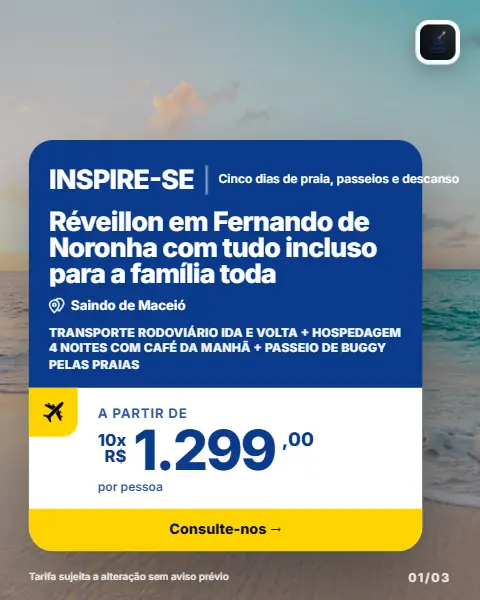
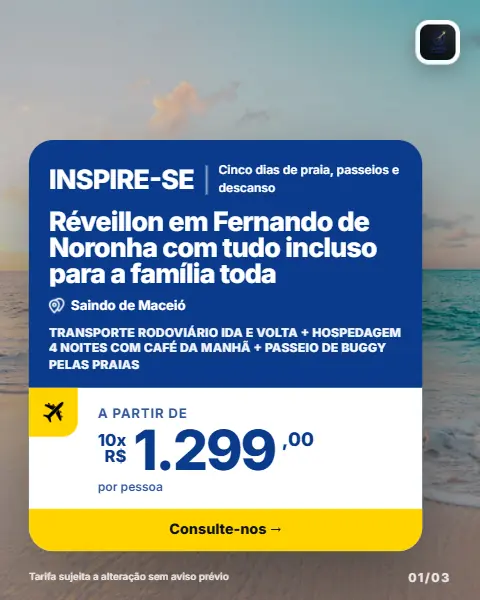
feat(funil): e-mail direto para o quiz, sem Google; vitrine em sequência também no quiz
- /inicio: e-mail abre o quiz na hora, sem link nem tela de confirmação; quem já tem conta confirma só ao pagar.
- Botão do Google desligado; quiz aberto sem login.
- Vitrine: carrosséis inteiros na ordem da postagem; mesmas peças no quiz, tela de exemplo resumida.
- Topo: logo pequena redonda e botão Acessar.
- Oferta: frase ao lado do rótulo não vaza do cartão.

Changed region(s): [[0.4375, 0.27, 0.9688, 0.33]]

diff --git a/src/pages/InicioCreme.tsx b/src/pages/InicioCreme.tsx
@@ -1,5 +1,6 @@
 import { useEffect, useRef, useState, type ChangeEvent, type ComponentType, type DragEvent, type FormEvent } from "react";
 import { useNavigate } from "react-router-dom";
+import logo from "@/assets/logo.png";
 import { Helmet } from "react-helmet-async";
 import {
   ArrowRight, Check, X, MapPin, Sparkles, Download, Mic, Upload, Infinity as InfinityIcon,
@@ -9,6 +10,7 @@ import {
 import { useAuth } from "@/contexts/AuthContext";
 import { trackMetaEvent } from "@/lib/meta-pixel-sales";
 import { BrandMark, Eyebrow, delay, useReveal } from "@/components/cv-cream/shared";
+import { ShowcaseRow, SHOWCASE_ADS, SHOWCASE_CAROUSELS } from "@/components/cv-cream/Showcase";
 import { siteOfferDemos } from "@/lib/site-offer-demos";
 import heroDashboard from "@/assets/hero_dashboard.jpg";
 
@@ -17,41 +19,6 @@ export const ONBOARDING_DESTINO_KEY = "cv-onboarding-destino";
 export const ONBOARDING_LOGO_KEY = "cv-onboarding-logo";
 
 type Icon = ComponentType<{ className?: string }>;
-type Piece = { src: string; w: number; h: number };
-
-// Vitrine: peças feitas na plataforma, em versões leves para o tamanho em que aparecem.
-const ADS: Piece[] = Array.from({ length: 9 }, (_, i) => ({ src: `/quiz-media/vitrine/ad-rio-${i + 1}.webp`, w: 540, h: 540 }));
-const CAROUSEL_SLIDES: Piece[] = [
-  "car-noronha-1",
-  "car-azul-0",
-  "car-preto-0",
-  "car-noronha-2",
-  "car-azul-1",
-  "car-preto-1",
-  "car-noronha-3",
-  "car-azul-2",
-  "car-preto-2",
-  "car-noronha-4",
-  "car-azul-3",
-  "car-preto-3",
-  "car-noronha-5",
-  "car-azul-4",
-  "car-preto-4",
-  "car-azul-5",
-  "car-preto-5",
-  "car-azul-6",
-  "car-preto-6",
-  "car-azul-7",
-  "car-preto-7",
-  "car-azul-8",
-  "car-preto-8",
-  "car-azul-9",
-  "car-preto-9",
-  "car-azul-10",
-  "car-preto-10",
-  "car-azul-11",
-  "car-preto-11",
-].map((n) => ({ src: `/quiz-media/vitrine/${n}.webp`, w: 480, h: 600 }));
 
 const builtFor: { label: string; icon: Icon }[] = [
   { label: "Anúncios", icon: Megaphone },
@@ -153,9 +120,11 @@ export default function InicioCreme() {
             boxShadow: scrolled ? "0 10px 30px -18px rgba(32,28,19,.35)" : "none",
           }}
         >
-          <a href="/inicio" aria-label="Canva Viagem" className="pr-2"><BrandMark size={36} /></a>
-          <button onClick={() => start("header")} className="cv-btn h-11 shrink-0 whitespace-nowrap px-4 text-[14px] sm:h-[52px] sm:px-7 sm:text-base">
-            Comece agora <ArrowRight className="hidden h-4 w-4 sm:block" />
+          <a href="/inicio" aria-label="Canva Viagem" className="block h-[26px] w-[26px] overflow-hidden rounded-full">
+            <img src={logo} alt="Canva Viagem" width={26} height={26} className="h-full w-full scale-[1.18] object-cover" />
+          </a>
+          <button onClick={() => start("header")} className="cv-btn h-9 shrink-0 whitespace-nowrap px-4 text-[13px]">
+            Acessar
           </button>
         </div>
       </header>
@@ -199,8 +168,8 @@ export default function InicioCreme() {
               </span>
               <p className="text-[14px] font-semibold" style={{ color: "var(--cv-muted)" }}>Anúncios, carrosséis e stories saindo prontos agora. Pode fazer 1 ou 1.000 no mesmo dia.</p>
             </div>
-            <ShowcaseRow pieces={ADS} alt="Anúncio feito na plataforma Canva Viagem" />
-            <ShowcaseRow pieces={CAROUSEL_SLIDES} alt="Slide de carrossel feito na plataforma Canva Viagem" reverse className="mt-2" />
+            <ShowcaseRow pieces={SHOWCASE_ADS} alt="Anúncio feito na plataforma Canva Viagem" />
+            <ShowcaseRow pieces={SHOWCASE_CAROUSELS} alt="Slide de carrossel feito na plataforma Canva Viagem" reverse className="mt-2" />
           </div>
 
           <div className="mx-auto mt-8 flex max-w-5xl flex-wrap items-center justify-center gap-2 rounded-full border bg-white px-4 py-3" style={{ borderColor: "var(--cv-line)" }}>
@@ -419,31 +388,6 @@ export default function InicioCreme() {
 }
 
 /* ───────────────────────── blocos ───────────────────────── */
-
-/** Faixa da vitrine. Carrega tudo logo ao abrir: em faixa animada o carregamento adiado deixava quadros vazios no celular. */
-function ShowcaseRow({ pieces, alt, reverse = false, className = "" }: { pieces: Piece[]; alt: string; reverse?: boolean; className?: string }) {
-  const items = [...pieces, ...pieces];
-  return (
-    <div className={`relative overflow-hidden rounded-[28px] py-2 ${className}`} style={{ maskImage: "linear-gradient(90deg, transparent, #000 6%, #000 94%, transparent)" }}>
-      <div className="travel-mobile-marquee flex w-max items-center gap-4" style={reverse ? { animationDirection: "reverse", animationDuration: "90s" } : undefined}>
-        {items.map((p, i) => (
-          <img
-            key={`${p.src}-${i}`}
-            src={p.src}
-            width={p.w}
-            height={p.h}
-            alt={i < pieces.length ? alt : ""}
-            aria-hidden={i >= pieces.length}
-            className="h-[200px] w-auto shrink-0 rounded-2xl border-4 border-white object-cover shadow-md sm:h-[260px]"
-            style={{ background: "var(--cv-sand)", aspectRatio: `${p.w} / ${p.h}` }}
-            loading="eager"
-            decoding="async"
-          />
-        ))}
-      </div>
-    </div>
-  );
-}
 
 /** Ilustrações animadas dos três passos: ouvir, montar, publicar. */
 function StepIllustration({ index }: { index: number }) {

diff --git a/src/pages/Onboarding.tsx b/src/pages/Onboarding.tsx
@@ -14,6 +14,7 @@ import { ELITE_OFFER } from "@/lib/eliteOffer";
 import { checkoutPath } from "@/components/checkout/checkout-plans";
 import { PayWithPixButton } from "@/components/pix/PixCheckout";
 import { BrandMark, delay } from "@/components/cv-cream/shared";
+import { ShowcaseRow, SHOWCASE_ADS, SHOWCASE_CAROUSELS } from "@/components/cv-cream/Showcase";
 import { ONBOARDING_DESTINO_KEY } from "@/pages/InicioCreme";
 import { isLocalPreviewEnabled } from "@/lib/localPreview";
 
@@ -124,12 +125,7 @@ const FIXES: Record<string, { title: string; fix: string; icon: Icon }> = {
 };
 
 const QUIZ_MEDIA = {
-  intro: ["/quiz-media/anuncio-maragogi-1.webp", "/quiz-media/carrossel-noronha-01.webp", "/quiz-media/anuncio-rio-1.webp"],
-  sample: "/quiz-media/anuncio-maragogi-1.webp",
-  carousels: [
-    { name: "Fernando de Noronha", slides: ["01", "02", "03", "04"].map((n) => `/quiz-media/carrossel-noronha-${n}.webp`) },
-    { name: "Maragogi", slides: ["01", "02", "03", "04"].map((n) => `/quiz-media/carrossel-maragogi-${n}.webp`) },
-  ],
+  intro: ["/quiz-media/vitrine/ad-rio-7.webp", "/quiz-media/vitrine/car-noronha-1.webp", "/quiz-media/vitrine/ad-rio-2.webp"],
   site: { desktop: "/quiz-media/site-desktop.webp", mobile: "/quiz-media/site-mobile.webp" },
 };
 
@@ -537,28 +533,18 @@ function Diagnosis({ answers, onNext }: { answers: Answers; onNext: () => void }
 function Sample({ onNext }: { onNext: () => void }) {
   return (
     <>
-      <Title sub="Anúncio, carrossel, o site do pacote e os seus clientes organizados. Tudo sai junto.">Essa arte levou 30 segundos. <Accent>Curtiu?</Accent></Title>
-      <div className="cv-pop mx-auto mt-6 w-full max-w-[320px]" style={delay(150)}>
-        <img src={QUIZ_MEDIA.sample} alt="Anúncio de Maragogi feito na Fábrica do Canva Viagem" className="aspect-square w-full rounded-[28px] object-cover shadow-[0_24px_50px_-24px_rgba(32,28,19,.6)]" />
+      <Title sub="Você recebe tudo isso pronto, com a sua logo.">Veja o que sai para a sua agência. <Accent>Curtiu?</Accent></Title>
+      <div className="cv-pop -mx-5 mt-5" style={delay(150)}>
+        <p className="mb-1 px-5 text-[12px] font-bold" style={{ color: "var(--cv-muted)" }}>ANÚNCIOS</p>
+        <ShowcaseRow pieces={SHOWCASE_ADS} alt="Anúncio feito no Canva Viagem" small />
+        <p className="mb-1 mt-3 px-5 text-[12px] font-bold" style={{ color: "var(--cv-muted)" }}>CARROSSÉIS</p>
+        <ShowcaseRow pieces={SHOWCASE_CAROUSELS} alt="Slide de carrossel feito no Canva Viagem" reverse small />
       </div>
-      {QUIZ_MEDIA.carousels.map((c, ci) => (
-        <div key={c.name} className="cv-pop mx-auto mt-4 w-full max-w-[320px]" style={delay(300 + ci * 150)}>
-          <p className="mb-2 text-[12px] font-semibold" style={{ color: "var(--cv-muted)" }}>+ carrossel de {c.name}</p>
-          <div className="grid grid-cols-4 gap-2">
-            {c.slides.map((src, i) => (
-              <img key={src} src={src} alt={`Tela ${i + 1} do carrossel de ${c.name}`} loading="lazy" className="aspect-[4/5] w-full rounded-xl object-cover shadow-md" />
-            ))}
-          </div>
-        </div>
-      ))}
-      <div className="cv-pop mx-auto mt-5 w-full max-w-[320px]" style={delay(600)}>
-        <p className="mb-2 text-[12px] font-semibold" style={{ color: "var(--cv-muted)" }}>+ o site do pacote, no computador e no celular</p>
+      <div className="cv-pop mx-auto mt-4 w-full max-w-[240px]" style={delay(300)}>
+        <p className="mb-2 text-center text-[12px] font-bold" style={{ color: "var(--cv-muted)" }}>SITE DO PACOTE</p>
         <SitePreview />
       </div>
-      <div className="cv-pop mx-auto mt-5 w-full max-w-[320px]" style={delay(750)}>
-        <p className="mb-2 text-[12px] font-semibold" style={{ color: "var(--cv-muted)" }}>+ seus clientes organizados</p>
-        <CrmPreview />
-      </div>
+      <p className="cv-pop mt-3 text-center text-[13px] font-semibold" style={{ ...delay(450), color: "var(--cv-muted)" }}>+ seus clientes organizados em um só lugar</p>
       <div className="mt-auto grid grid-cols-2 gap-3 pt-6">
         <button onClick={onNext} className="h-14 rounded-full border bg-white text-[15px] font-semibold" style={{ borderColor: "var(--cv-line)" }}>Não é meu estilo</button>
         <button onClick={onNext} className="cv-btn h-14 text-[15px]">Postaria isso!</button>

diff --git a/src/pages/Login.tsx b/src/pages/Login.tsx
@@ -28,6 +28,8 @@ const hashNormalizedEmail = async (email: string) => {
   return Array.from(new Uint8Array(digest), (byte) => byte.toString(16).padStart(2, "0")).join("");
 };
 
+const LEAD_EMAIL_KEY = "cv:lead-email";
+
 const bindPendingCheckoutToEmail = async (email: string) => {
   try {
     const pendingState = JSON.parse(localStorage.getItem(pendingAuthStateKey) || "null") as {
@@ -57,7 +59,9 @@ const Login = () => {
   const navigate = useNavigate();
   const [searchParams] = useSearchParams();
   const { user, loading, subscription } = useAuth();
-  const [email, setEmail] = useState("");
+  const [email, setEmail] = useState(() => {
+    try { return localStorage.getItem(LEAD_EMAIL_KEY) || ""; } catch { return ""; }
+  });
   const [name, setName] = useState("");
   const [phone, setPhone] = useState("");
   const [isLoading, setIsLoading] = useState(false);
@@ -148,7 +152,25 @@ const Login = () => {
 
     try {
       const normalizedEmail = email.toLowerCase().trim();
+      try { localStorage.setItem(LEAD_EMAIL_KEY, normalizedEmail); } catch { /* storage indisponível */ }
       await bindPendingCheckoutToEmail(normalizedEmail);
+      if (quickEntry) {
+        // Da página inicial: guarda o e-mail e abre o quiz na hora, sem link nem tela de confirmação.
+        // E-mail novo já ganha conta e sessão (mailer_autoconfirm). Quem já tem conta faz o quiz
+        // sem sessão e só confirma o e-mail na hora de pagar: entrar na conta sem o link seria inseguro.
+        const randomBytes = crypto.getRandomValues(new Uint8Array(24));
+        const password = Array.from(randomBytes, (b) => b.toString(16).padStart(2, "0")).join("");
+        const { data: signUp } = await supabase.auth
+          .signUp({ email: normalizedEmail, password, options: { data: { quick_start: true } } })
+          .catch(() => ({ data: { session: null } }));
+        if (signUp?.session) {
+          // O efeito de login acima leva para o quiz assim que a sessão carregar.
+          setOpeningQuiz(true);
+          return;
+        }
+        navigate(redirectTo || "/onboarding");
+        return;
+      }
       const { data, error } = await supabase.functions.invoke("send-magic-link", {
         body: {
           email: normalizedEmail,
@@ -167,27 +189,6 @@ const Login = () => {
           toast.error(errorMsg);
         }
         return;
-      }
-
-      if (quickEntry) {
-        // O projeto confirma e-mail automaticamente (mailer_autoconfirm), então o cadastro já devolve
-        // a sessão. A senha aleatória nunca é usada: a pessoa volta pelo link do e-mail ou pelo Google.
-        // E-mail que já tem conta não ganha sessão aqui; precisa confirmar pelo link.
-        const randomBytes = crypto.getRandomValues(new Uint8Array(24));
-        const password = Array.from(randomBytes, (b) => b.toString(16).padStart(2, "0")).join("");
-        const { data: signUp, error: signUpError } = await supabase.auth.signUp({
-          email: normalizedEmail,
-          password,
-          options: { data: { quick_start: true } },
-        });
-        if (!signUpError && signUp.session) {
-          // O efeito de login acima leva para o quiz assim que a sessão carregar.
-          setOpeningQuiz(true);
-          return;
-        }
-        const alreadyRegistered = /already|registered|exists/i.test(signUpError?.message ?? "")
-          || (signUp?.user && (signUp.user.identities?.length ?? 0) === 0);
-        setExistingAccount(Boolean(alreadyRegistered));
       }
 
       setMagicLinkSent(true);
@@ -517,7 +518,7 @@ function QuickEntryScreen(props: {
                 <li>Cancele quando quiser</li>
               </ul>
               <p className="mt-4 text-center text-[12px]" style={{ color: "var(--cv-muted)" }}>
-                Já é assinante? Use o mesmo e-mail da compra.
+                Já é assinante? <a href="/login?redirect=%2F" className="font-semibold underline">Entrar na minha conta</a>
               </p>
             </>
           ) : (

diff --git a/src/components/cv-cream/Showcase.tsx b/src/components/cv-cream/Showcase.tsx
@@ -1,0 +1,63 @@
+// Vitrine usada na página inicial e no quiz: mesmas peças, mesma ordem.
+export type ShowcasePiece = { src: string; w: number; h: number; newSet?: boolean };
+
+const base = "/quiz-media/vitrine";
+
+export const SHOWCASE_ADS: ShowcasePiece[] = Array.from({ length: 9 }, (_, i) => ({
+  src: `${base}/ad-rio-${i + 1}.webp`,
+  w: 540,
+  h: 540,
+}));
+
+// Cada carrossel fica inteiro e na ordem da postagem: capa, miolo e fechamento.
+const carousel = (name: string, frames: (string | number)[]): ShowcasePiece[] =>
+  frames.map((f, i) => ({ src: `${base}/car-${name}-${f}.webp`, w: 480, h: 600, newSet: i === 0 }));
+
+export const SHOWCASE_CAROUSELS: ShowcasePiece[] = [
+  ...carousel("noronha", [1, 2, 3, 4, 5]),
+  ...carousel("azul", [0, 1, 2]),
+  ...carousel("preto", [3, 4, 5]),
+  ...carousel("azul", [6, 7, 8]),
+  ...carousel("preto", [9, 10, 11]),
+  ...carousel("azul", [3, 4, 5]),
+  ...carousel("preto", [0, 1, 2]),
+  ...carousel("azul", [9, 10, 11]),
+  ...carousel("preto", [6, 7, 8]),
+];
+
+/** Faixa infinita. Carrega tudo ao abrir: em faixa animada, o carregamento adiado deixava quadros vazios no celular. */
+export function ShowcaseRow({
+  pieces,
+  alt,
+  reverse = false,
+  small = false,
+  className = "",
+}: {
+  pieces: ShowcasePiece[];
+  alt: string;
+  reverse?: boolean;
+  small?: boolean;
+  className?: string;
+}) {
+  const items = [...pieces, ...pieces];
+  return (
+    <div className={`relative overflow-hidden rounded-[28px] py-2 ${className}`} style={{ maskImage: "linear-gradient(90deg, transparent, #000 6%, #000 94%, transparent)" }}>
+      <div className="travel-mobile-marquee flex w-max items-center gap-4" style={reverse ? { animationDirection: "reverse", animationDuration: "120s" } : undefined}>
+        {items.map((p, i) => (
+          <img
+            key={`${p.src}-${i}`}
+            src={p.src}
+            width={p.w}
+            height={p.h}
+            alt={i < pieces.length ? alt : ""}
+            aria-hidden={i >= pieces.length}
+            className={`w-auto shrink-0 rounded-2xl border-4 border-white object-cover shadow-md ${small ? "h-[170px]" : "h-[200px] sm:h-[260px]"}`}
+            style={{ background: "var(--cv-sand)", aspectRatio: `${p.w} / ${p.h}`, marginLeft: p.newSet ? 24 : undefined }}
+            loading="eager"
+            decoding="async"
+          />
+        ))}
+      </div>
+    </div>
+  );
+}

diff --git a/src/components/fabrica/CarouselProSlides.tsx b/src/components/fabrica/CarouselProSlides.tsx
@@ -428,7 +428,7 @@ export function ProSlide(p: ProSlideProps) {
               <div style={{ display: "flex", alignItems: "center", gap: 10 }}>
                 <span style={{ fontFamily: ff, fontSize: 24, fontWeight: 900, letterSpacing: "-0.02em", flexShrink: 0 }}>{label || T.offer}</span>
                 <span style={{ width: 1.5, height: 26, background: rgba(cardFg, 0.5), flexShrink: 0 }} />
-                <Body text={tagline} color={cardFg} ff={ff} size={11} maxLines={2} weight={600} />
+                <div style={{ flex: "1 1 0", minWidth: 0 }}><Body text={tagline} color={cardFg} ff={ff} size={11} maxLines={2} weight={600} /></div>
               </div>
               <Title text={title} color={titleColor || cardFg} ff={ff} base={story ? 34 : 32} maxLines={4} weight={900} />
               {departure && (

diff --git a/src/App.tsx b/src/App.tsx
@@ -253,7 +253,7 @@ const App = () => {
                     <Route path="/planos" element={<Navigate to="/inicio" replace />} />
                     <Route path="/pt/planos" element={<Navigate to="/inicio" replace />} />
                     <Route path="/inicio" element={<InicioEntry />} />
-                    <Route path="/onboarding" element={<ProtectedRoute><Onboarding /></ProtectedRoute>} />
+                    <Route path="/onboarding" element={<Onboarding />} />
                     <Route path="/checkout" element={<ProtectedRoute><Checkout /></ProtectedRoute>} />
                     <Route path="/anuncios-para-agencia-de-viagens" element={<AdsOfferLanding />} />
                     <Route path="/site-para-agencia-de-viagens" element={<SiteOfferLanding />} />

diff --git a/src/components/auth/GoogleSignInButton.tsx b/src/components/auth/GoogleSignInButton.tsx
@@ -9,7 +9,8 @@ import { lovable } from "@/integrations/lovable";
  * Depois do retorno, a sessão entra no Supabase e a própria página de login redireciona para
  * `redirectTo` (quiz, checkout...) ou / ou /inicio.
  */
-let googleEnabledCache: boolean | null = null;
+// Botão desligado a pedido do Lucas: a tela do Google com o nome Lovable afastava leads.
+let googleEnabledCache: boolean | null = false;
 
 /** Pergunta ao projeto se o Google está ligado; se não estiver, o botão some em vez de abrir uma tela de erro. */
 async function isGoogleEnabled(): Promise<boolean> {
